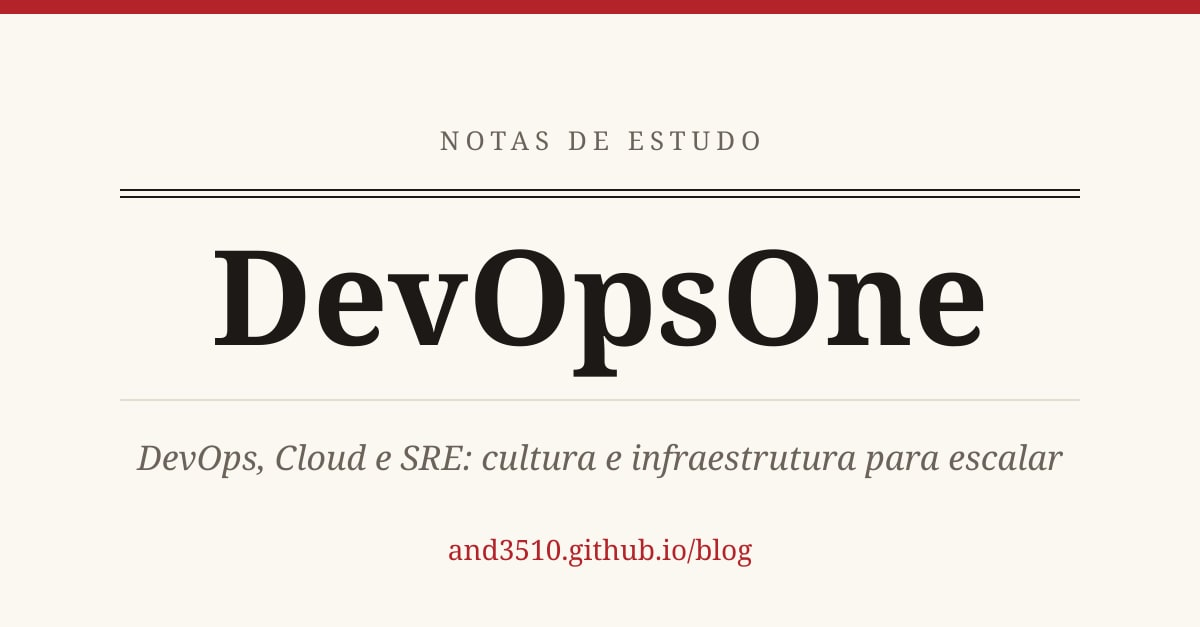
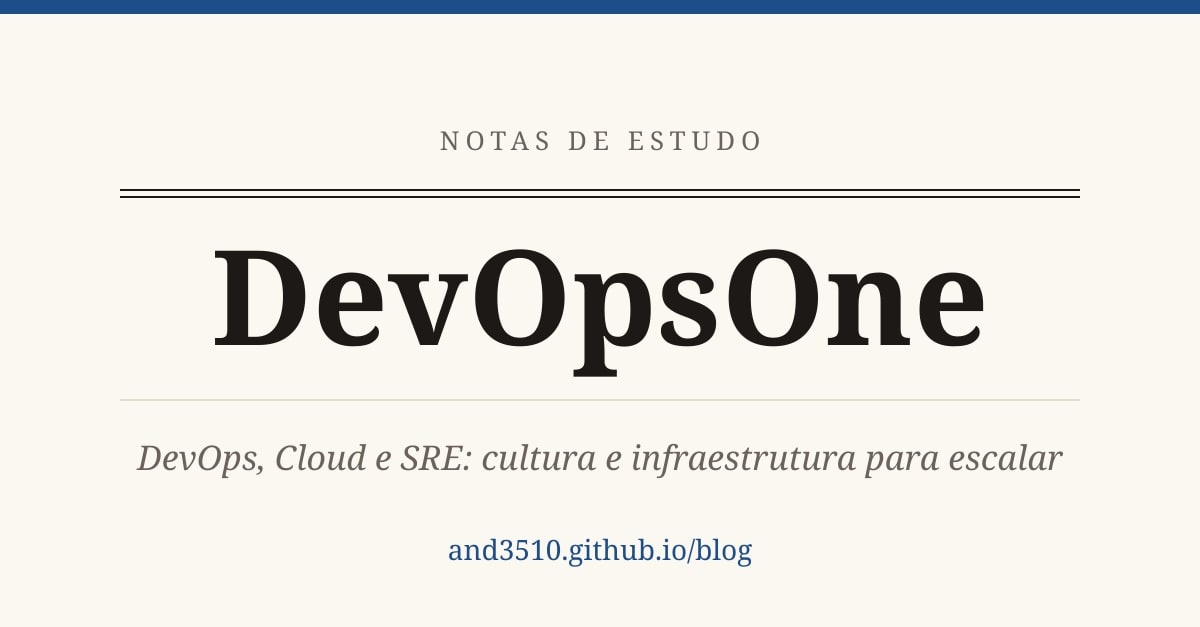
atualziação das cores

Changed region(s): [[0.0, 0.0, 1.0, 0.0303], [0.37, 0.8485, 0.6475, 0.9091]]

diff --git a/blog/src/styles/global.css b/blog/src/styles/global.css
@@ -9,11 +9,35 @@
   --color-ink: #1c1917;
   --color-muted: #6b6359;
   --color-rule: #e4ddd0;
-  --color-accent: #b4232a;
-  --color-accent-soft: #f6e7e3;
+  --color-accent: #1d4e89;
+  --color-accent-soft: #e5ecf5;
+  --color-body: #2a2522;
+  --color-quote: #4a413a;
+  --color-code-bg: #f0ebe1;
+  --color-code-ink: #173d6b;
+  --color-card: #ffffff;
+}
+
+/* Tema escuro: o script no <head> define data-theme (preferência salva ou a do sistema). */
+@custom-variant dark (&:where([data-theme="dark"], [data-theme="dark"] *));
+
+:root[data-theme="dark"] {
+  color-scheme: dark;
+  --color-paper: #181613;
+  --color-ink: #ede6da;
+  --color-muted: #a39a8d;
+  --color-rule: #3a342d;
+  --color-accent: #7fa9e0;
+  --color-accent-soft: #1c2836;
+  --color-body: #d9d1c4;
+  --color-quote: #cbbfae;
+  --color-code-bg: #2a2622;
+  --color-code-ink: #a9c6ee;
+  --color-card: #211e1a;
 }
 
 html {
+  color-scheme: light;
   scroll-behavior: smooth;
 }
 
@@ -40,7 +64,7 @@ body {
   font-family: var(--font-serif);
   font-size: 1.1875rem;
   line-height: 1.75;
-  color: #2a2522;
+  color: var(--color-body);
 }
 .prose-post > * + * {
   margin-top: 1.15em;
@@ -116,7 +140,7 @@ body {
   background: var(--color-accent-soft);
   padding: 0.9em 1.2em;
   border-radius: 0 0.4em 0.4em 0;
-  color: #4a413a;
+  color: var(--color-quote);
   font-style: italic;
 }
 .prose-post hr {
@@ -131,11 +155,11 @@ body {
 }
 .prose-post code {
   font-family: var(--font-mono);
-  background: #f0ebe1;
+  background: var(--color-code-bg);
   border-radius: 0.3em;
   padding: 0.12em 0.4em;
   font-size: 0.82em;
-  color: #7a1d22;
+  color: var(--color-code-ink);
 }
 .prose-post pre {
   font-size: 0.95rem;
@@ -244,7 +268,7 @@ body {
   font-family: var(--font-sans);
   border: 1px solid var(--color-rule);
   border-left: 3px solid var(--color-accent);
-  background: #fff;
+  background: var(--color-card);
   border-radius: 0.4em;
   padding: 1em 1.3em;
 }

diff --git a/style.css b/style.css
@@ -199,21 +199,33 @@ h1 {
   }
 }
 
-/* Botão Blog: tipografia editorial do site DevOpsOne, com cursor de digitação vermelho */
+/* Botão Blog: no hover, assume o visual do DevOpsOne (papel + azul tinta),
+   seguindo o tema claro/escuro do sistema como o blog faz. */
 .btn-blog {
   font-family: 'Playfair Display', Georgia, 'Times New Roman', serif;
   letter-spacing: 0.3px;
+  --blog-paper: #fbf8f2;
+  --blog-ink: #1c1917;
+  --blog-accent: #1d4e89;
+}
+
+@media (prefers-color-scheme: dark) {
+  .btn-blog {
+    --blog-paper: #181613;
+    --blog-ink: #ede6da;
+    --blog-accent: #7fa9e0;
+  }
 }
 
 .btn-blog:hover {
-  background: #fdfdfd;
-  color: #111;
-  border-color: #111;
+  background: var(--blog-paper);
+  color: var(--blog-ink);
+  border-color: var(--blog-accent);
   box-shadow: 0 0 22px rgba(0, 0, 0, 0.25);
 }
 
 .btn-blog .typing-cursor {
-  color: #c0392b;
+  color: var(--blog-accent);
 }
 
 /* Cursor piscando estilo prompt */
